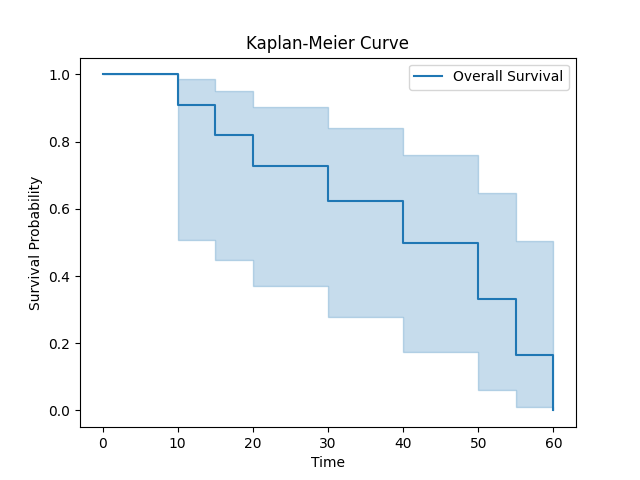
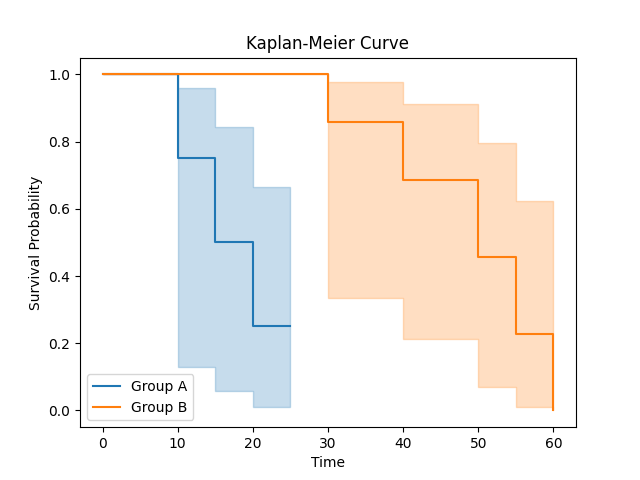
changed the KM plot so that it shows both curves at once

Changed region(s): [[0.125, 0.125, 0.875, 0.875], [0.2812, 0.3125, 0.3438, 0.3438]]

diff --git a/run.py b/run.py
@@ -17,14 +17,34 @@ data = pd.DataFrame({
 kmf = KaplanMeierFitter()
 kmf.fit(data['Time'], data['Event'], label='Overall Survival')
 
-# plot the KaplanMeier curve
+# Split the data by groups
+groups = data['Group'].unique()
 
-fig, ax = plt.subplots()
-kmf.plot(ax=ax)
+# Create a new figure
+fig,ax = plt.subplots()
+
+# Plot seperate curves for each group
+for group in groups:
+    group_data = data[data['Group'] == group]
+    kmf.fit(group_data['Time'],group_data['Event'], label=group)
+    kmf.plot(ax=ax)
+
+# set labels and title for the plot
 ax.set_xlabel('Time')
 ax.set_ylabel('Survival Probability')
 ax.set_title('Kaplan-Meier Curve')
+
+# display legend
+ax.legend()
+
+# save and display the plot
 plt.savefig('km_plot.png')
+plt.show()
+
+
+
+
+
 
 
 
